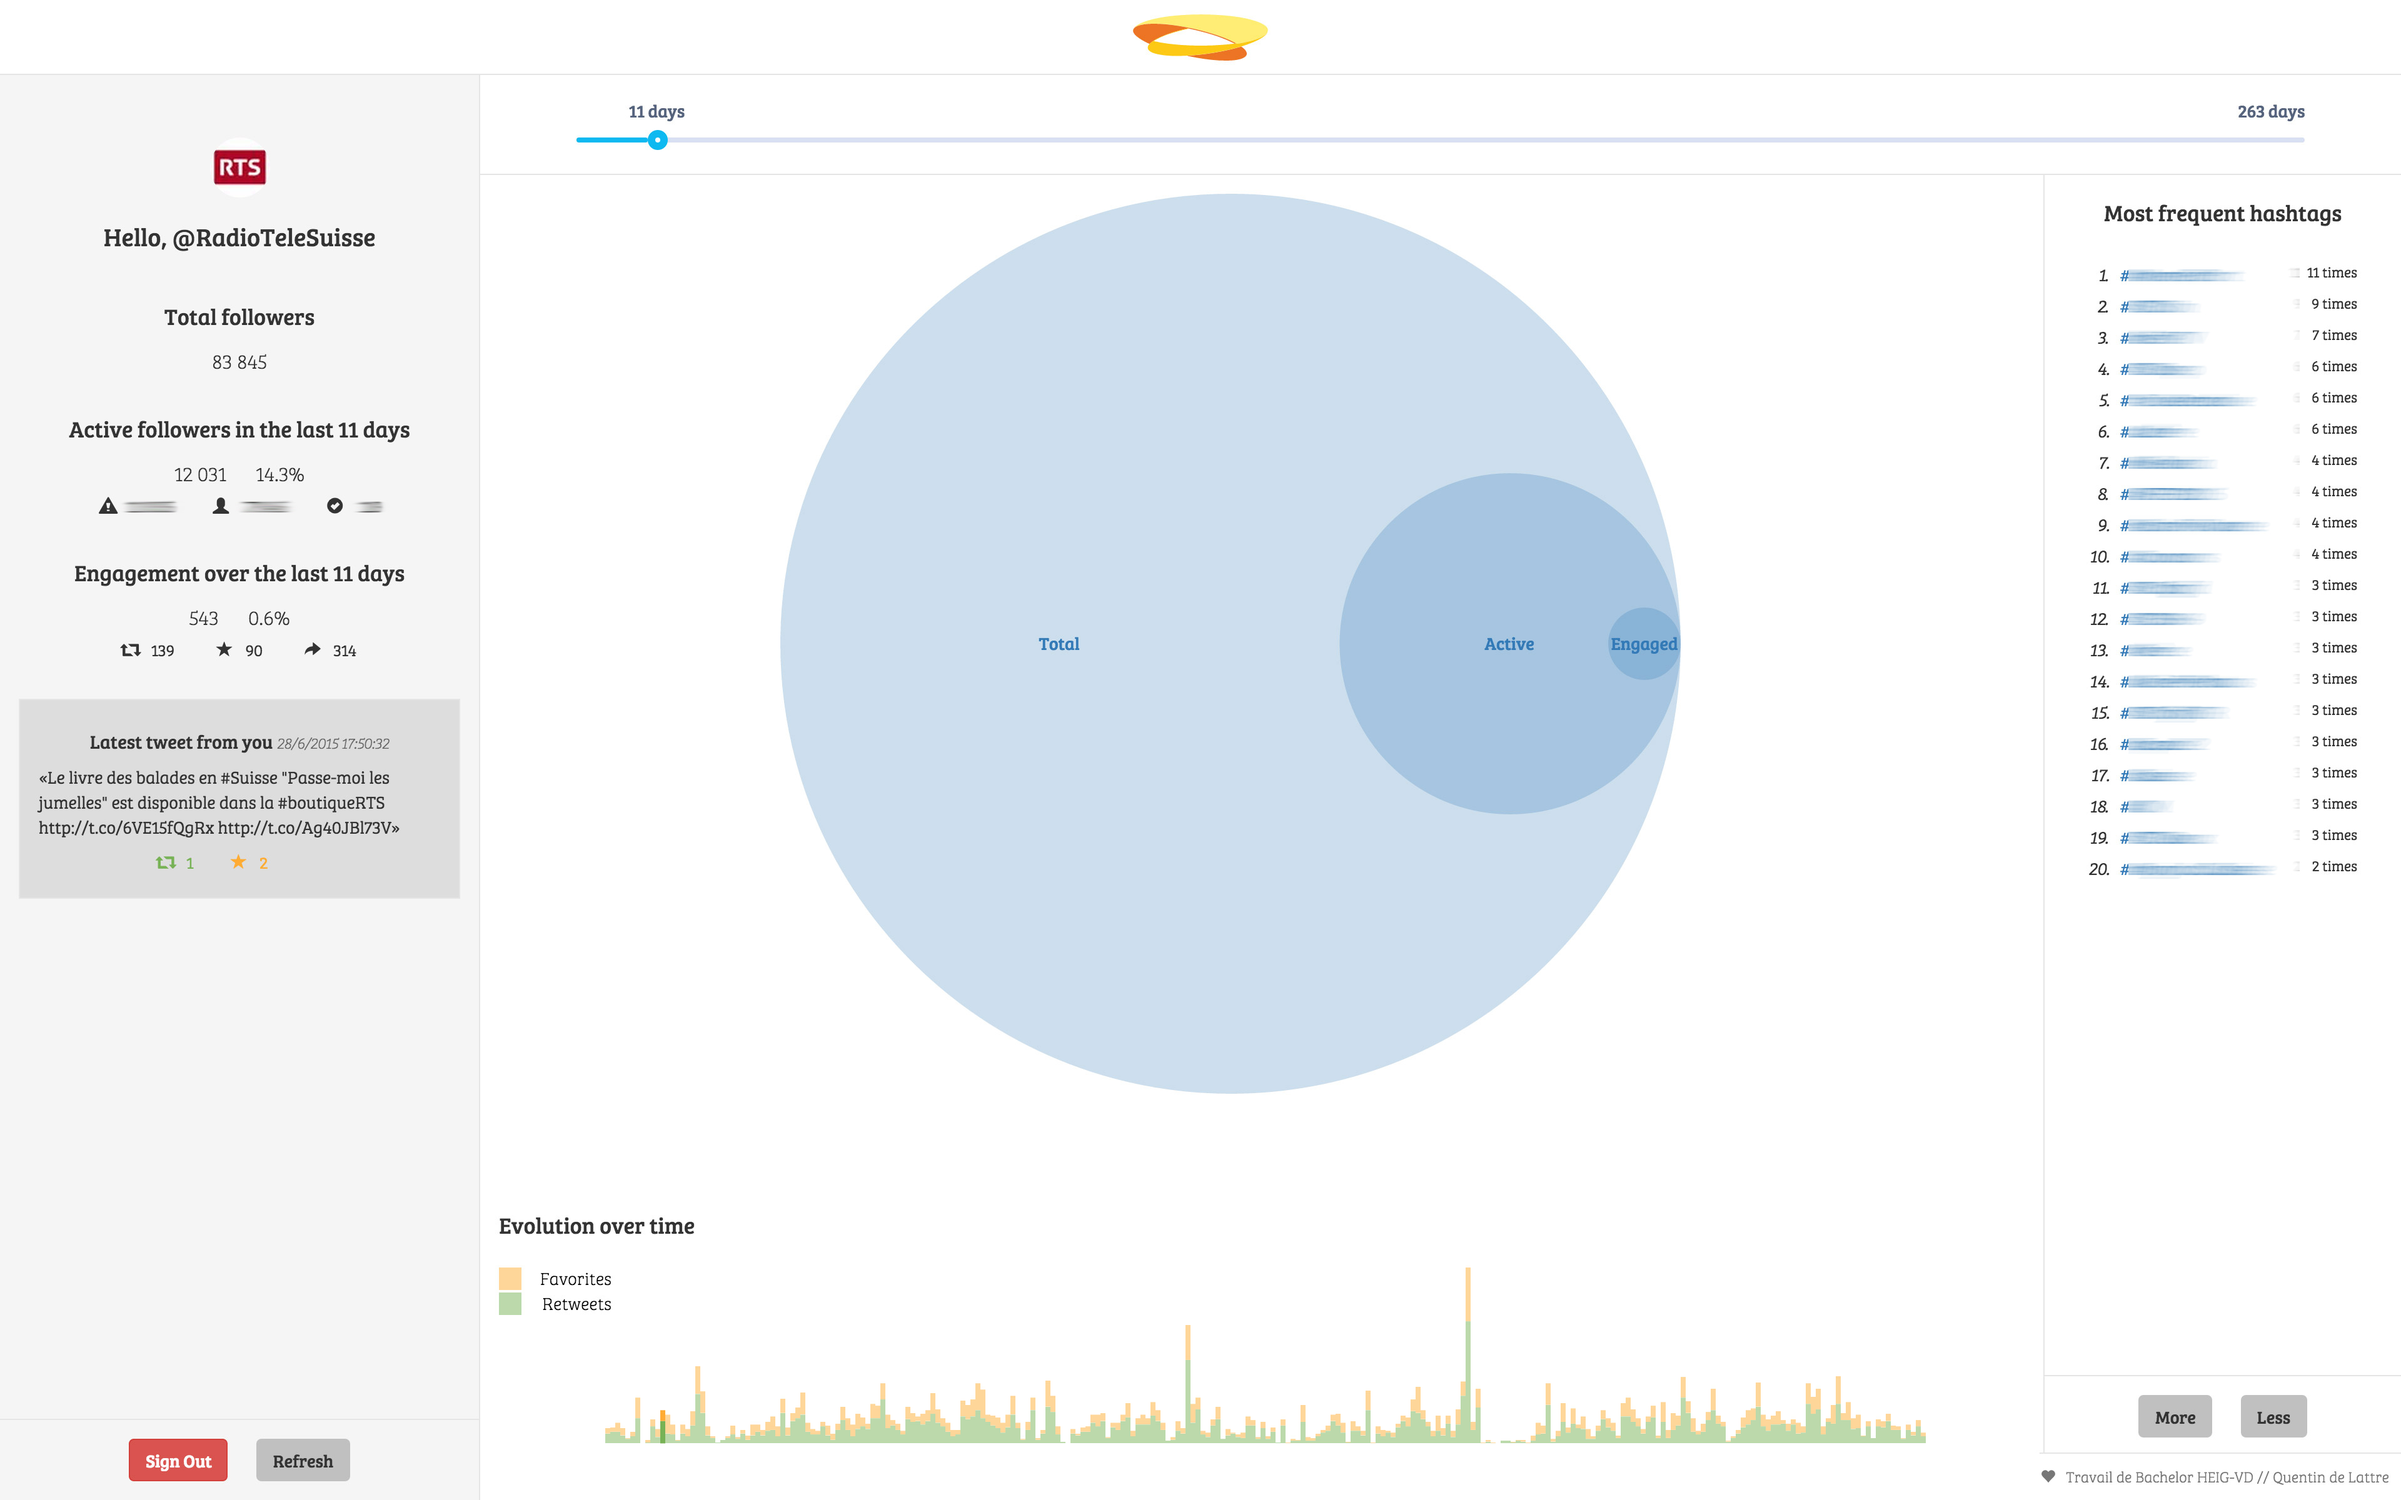
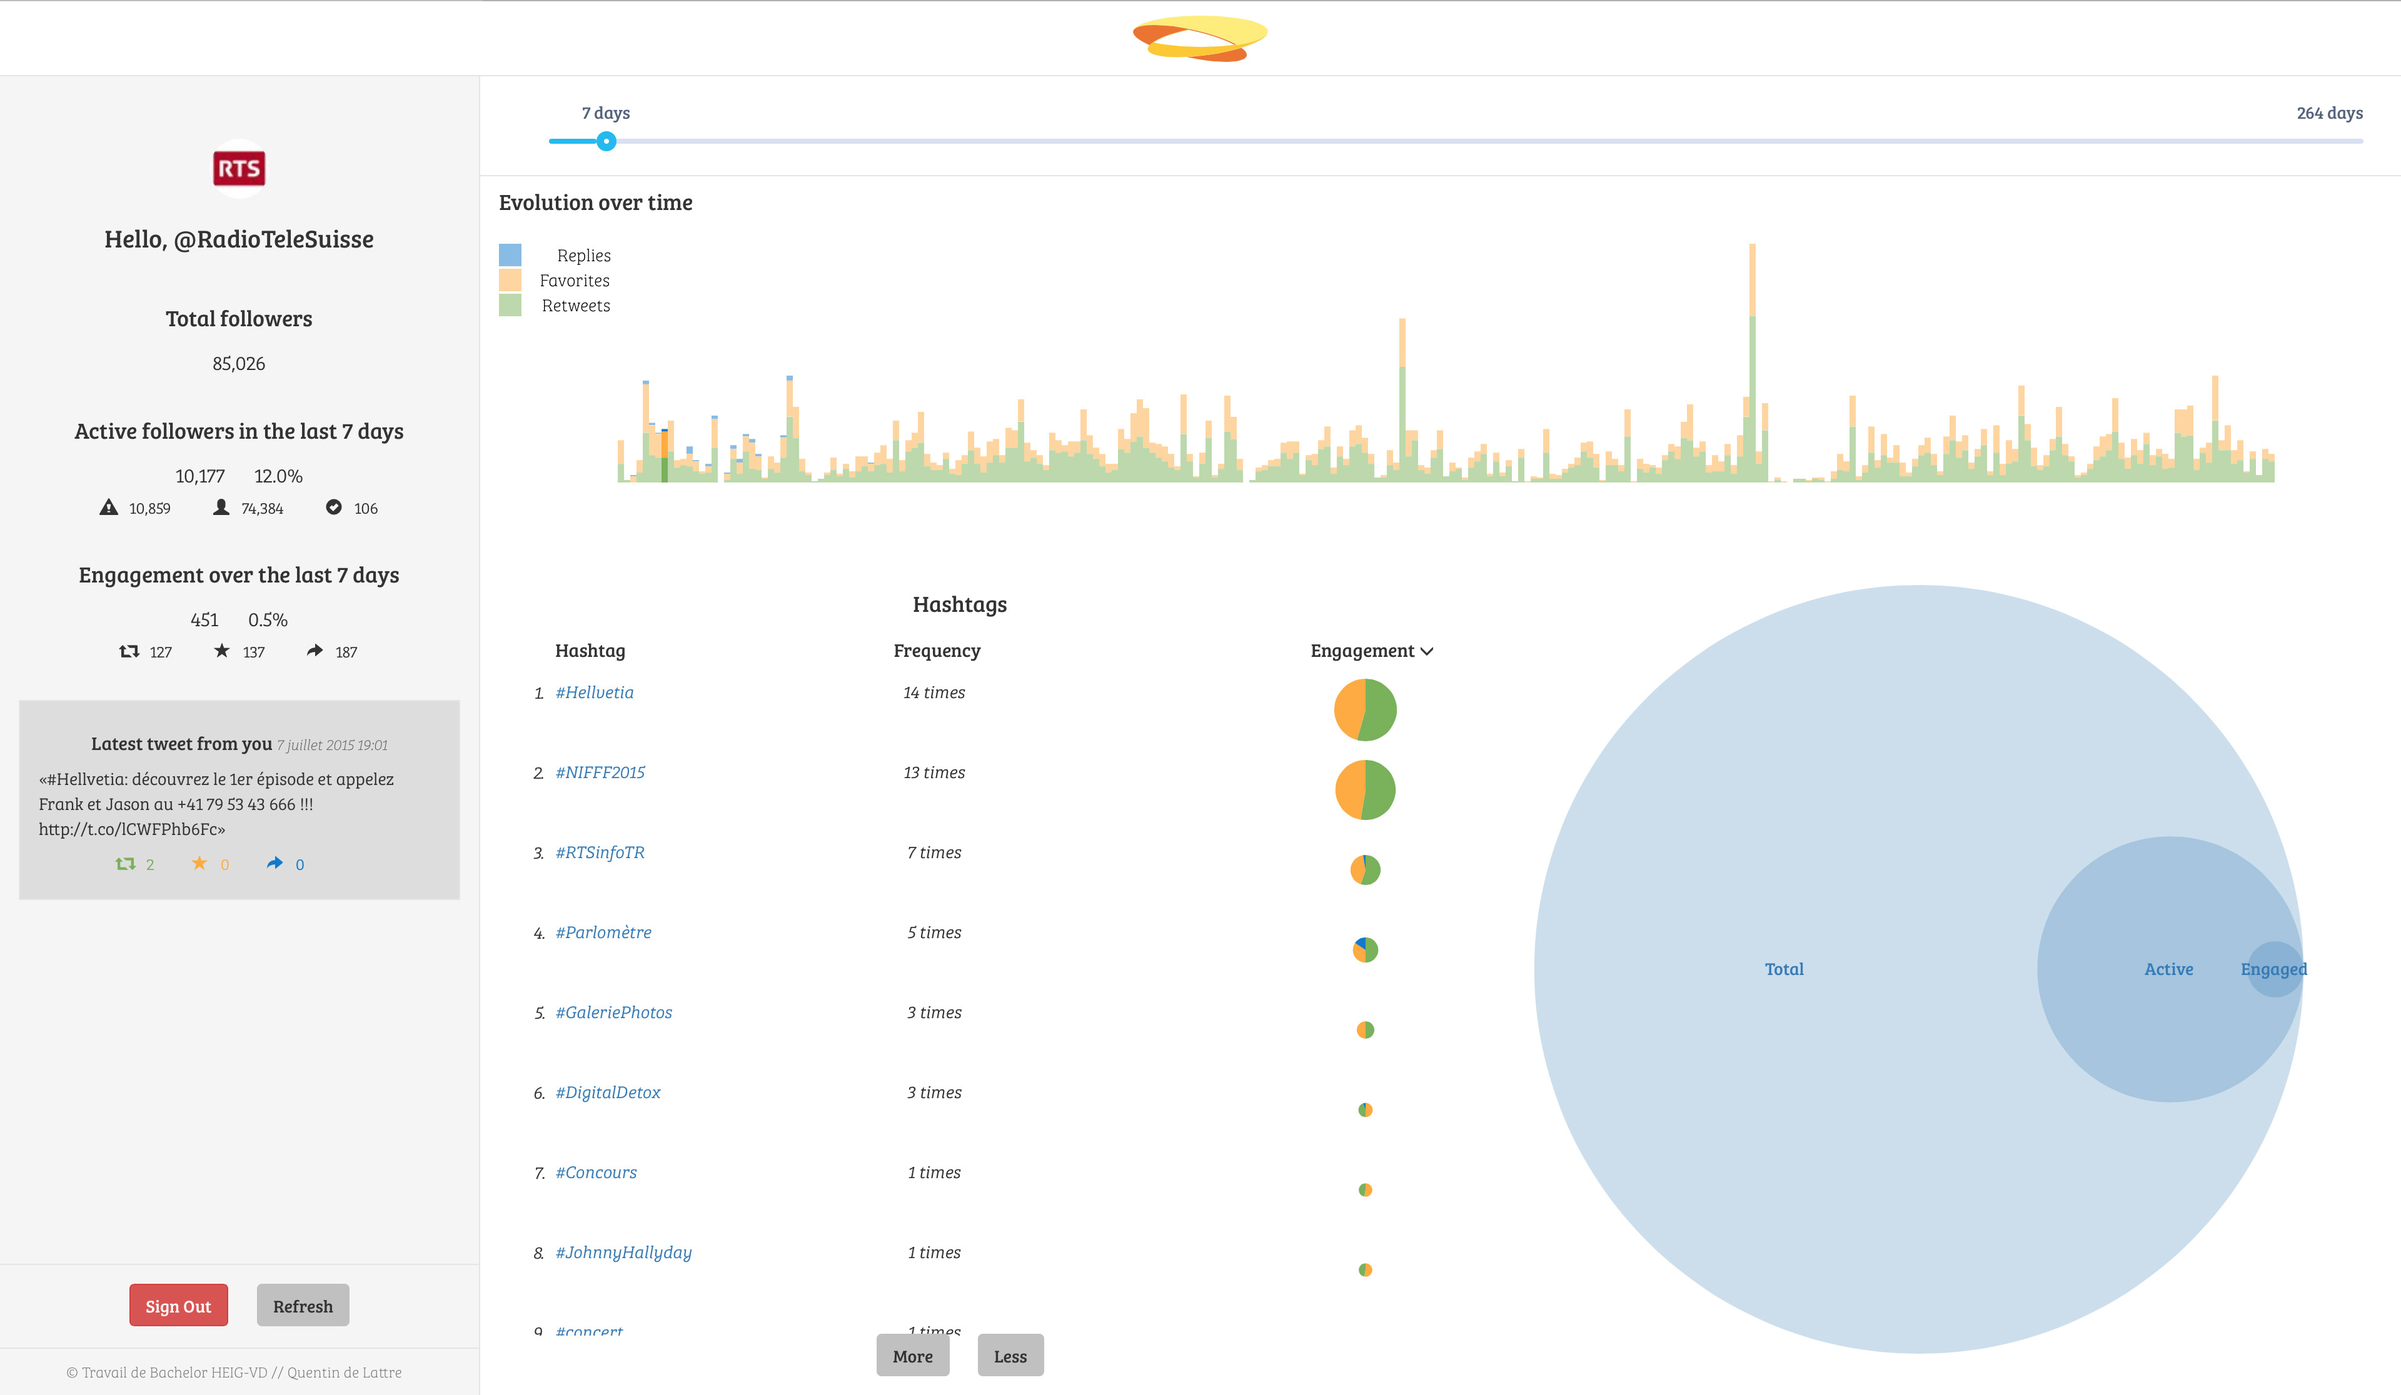
Updated README

diff --git a/README.md b/README.md
@@ -2,11 +2,21 @@
 
 ## Introduction
 
-Nest is my Bachelor project at [HEIG-VD](http://www.heig-vd.ch). It was developed to provide an Analytics Tool focused on measuring followers activity and engagement for the Radio Télévision Suisse (RTS) - public service TV and Radio broadcast company.
+Nest is my Bachelor project at [HEIG-VD](http://www.heig-vd.ch). It was developed to provide an Analytics Tool focused on measuring followers activity and engagement for the Radio Télévision Suisse (RTS) - public service TV and Radio broadcast company over its multiple Twitter accounts.
 
 This web application runs on [AngularJS](https://angularjs.org) and renders the data visualization through the  [D3](http://d3js.org) library. The Venn diagram rendering is courtesy of [Benfred's venn.js plugin](https://github.com/benfred/venn.js).
 
-<!-- The app is up and running at this address: [https://nest.herokuapp.com](https://nest.herokuapp.com). -->
+The app is up and running at this address: [http://nest.herokuapp.com](http://nest.herokuapp.com).
+
+### Engagement
+What is engagement ? This notion is quite complex to define since it relies on many types of behaviour from a user towards another. The official definition from Twitter describes engagement as any action going further than just seeing a tweet from a user in one's timeline. That entails:
+* Clicks on your tweet (on the profile picture, the possible embedded media, or the tweet itself to see the details)
+* Retweeting your tweet
+* Adding your tweet to their favorites
+* Replying to your tweet
+* Starting to follow the user who sent the tweet
+
+However, some [other reference website](http://simplymeasured.com/blog/2013/06/05/twitter-metrics-defined-engagement/#i.11ldj2m1cc4ecf) consider engagement simply as the sum of retweets, favorites and mentions over a certain time span. Eventually, this notion has to be tailored to what you are trying to analyse. In the case of this project, we consider engagement as the latter (ie. Retweets + Favorites + Mentions).
 
 ## Requirements to run on localhost
 
@@ -17,11 +27,7 @@ We assume you have already installed [Node and npm](https://nodejs.org).
 $ npm install -g grunt-cli bower
 ```
 * Follow this quick install guide to get [OAuthd](https://github.com/oauth-io/oauthd) up and running (Will guide you through installing Redis) : https://github.com/oauth-io/oauthd/wiki/Quickstart
-* Go to the Twitter Developers page and create an App (you'll need its token for OAuth)
-![](/screenshots/TwitterApp.png)
-* When your Redis server and OAutd are running, head to localhost:6284 and log in the admin panel
-* Setup the Twitter App
-![](http://blog.oauth.io/wp-content/uploads/2013/12/twitter-setup2.gif)
+* When your Redis server and OAutd are running, you can use the app.
 
 ## Installation
 
@@ -29,7 +35,7 @@ $ npm install -g grunt-cli bower
 ```
 $ git clone git@github.com:quentindelattre/nest.git
 ```
-* `cd` to the cloned directory and install the packages.
+* `cd` to the cloned directory and install the packages. (You might have to `sudo` these commands individually)
 ```
 $ npm install && bower install
 ```
@@ -43,14 +49,14 @@ $ grunt serve
 
 ### Homepage
 
-The home page lets you login with Twitter. Login with the account that you want to analyze and authorize the Nest App (read only).
+The home page lets you login with Twitter. Login with the account that you want to analyze and authorize the Nest App.
 ![](/screenshots/00_LandingPage.png)
 
 ### Loading Page
 
 Nest collects three different data to provide the analytics :
-* The 3200 latest tweets from your own timeline (3200 is the API limit).
-* The 800 latest tweets mentioning your @handle.
+* The 3200 latest tweets from your own timeline. (3200 is the API limit)
+* The 800 latest tweets mentioning your @handle. (Also limited by the API to 800)
 * The list of all your followers including (if any) the date of their latest tweet. This takes very long if you have a lot of followers because of [Twitter's rate limit](https://dev.twitter.com/rest/public/rate-limiting) on the API requests. The script collects 3000 followers per 15-minute session, then waits for a new session and continues, so sit back and relax, it's not broken it just takes a while.
 
 ![](/screenshots/01_Loading.jpg)
@@ -59,39 +65,38 @@ Nest collects three different data to provide the analytics :
 
 ![](/screenshots/02_Render.jpg)
 
-The visualization page shows you the data in an interactive way. On the left sidebar, you get numerical statistics about your followers activity and engagement with your account and the latest tweet from your account. On the top of the page, you can see the Time Machine that lets you visualize the evolution of your stats over time. The main part of the view is occupied by the interactive charts. The intersecting circles represent the statistics in the left sidebar while the bar chart shows the retweets and favorites your tweets generated during the time period set in the Time Machine. Finally, the right sidebar presents the most frequent hashtags used in your tweets in the last days set in the Time Machine. Let's walk through the stats and functionalities available in the app.
+On the left sidebar of the visualization page, you have numerical statistics about your followers activity and engagement with your account and the latest tweet from your timeline. On the top of the page, you can see the Time Machine that lets you visualize the evolution of your stats over time. The main part of the view is occupied by the interactive charts. The bar chart shows you how many retweets, favorites and replies your tweets generated on a daily basis. Next, you get statistics about the hashtags you used in your tweets in the last days set in the Time Machine, those hashtags can be ordered by alphabetical order, by frequency or by engagement generated. Finally, the intersecting circles in the Venn diagram represent the respective sizes of your total followers, their activity (at least sent one tweet in the last XX days) and their engagement towards your account. Let's walk through the stats and functionalities available in the app.
 
 #### Time Machine
 ![](/screenshots/03_TimeMachine.jpg)
 
-Adjust the time period of the stats with the slider.
+Adjust the time period of the stats with the slider. This allows you to visualize the evolution of your account and adapts all of the stats in the visualization.
+
+![](/screenshots/04_TimeMachineStats.jpg)
 
 #### Sidebar
-![](/screenshots/05_HoverStats.jpg)
 
 ##### Active followers
-A follower is considered active if he has tweeted within the time span of the Time Machine.
-The hover indications present details about the "health" of your followers. For example, if a follower has a pristine default account and follows way more people than is followed by (following 10'000 accounts and is followed by 20), it is likely to be a bot or spam account. The users that have at least tweeted once (even out of the Time Machine limit) are considered as Standard users. Finally, there is the number of verified accounts of official users.
+A follower is considered active if he has tweeted at least once within the time span of the Time Machine.
+The hover indications present details about the "health" of your followers. If a user has a pristine default account that is not protected and follows way more people than is followed by (ratio of following/followers similar to 10'000 to 20), we assume that it is some kind of spam account. You can click on this value to display a full list of those accounts and delete them from your followers if you want. The users that have at least tweeted once (even out of the Time Machine limit) are considered as Standard users. Finally, there is the number of verified accounts of official users.
+
+![](/screenshots/05_HoverStats.jpg)
+
 
 ##### Engaged followers
-The engaged followers are those who have retweeted your tweets and/or added them to their favorites and/or mentioned your @handle.
+For the purpose of this project, we consider the engaged (cf [engagement](https://github.com/quentindelattre/nest#engagement)) followers as those who have retweeted your tweets and/or added them to their favorites and/or mentioned your @handle, should it be in a reply to your tweets of by direct mention.
 
 #### Visualization
-The Venn diagram adjust with the Time Machine, on hover, the value of the circle is displayed in a tooltip.
 
-The bar chart represents the daily amount of retweets and mentions over the whole Time Machine. You can therefore see when your account was especially successful with your community. When a specific spike intrigues you, click on it and all your tweets from that day show up with the most successful first.
+The bar chart represents the daily amount of retweets, mentions and replies to your tweets over the whole Time Machine span. You can therefore see when your account was especially successful with your community. When a specific spike intrigues you, click on it and all your tweets from that day show up with the most successful first. That way, you can analyze your timeline to find out what kind of content really works with your followers.
 
 ![](/screenshots/07_TweetsFromDay.jpg)
 
+The hashtags visualization allows you to gain insight over the content of your tweets and the kind of engagement they generated. By default, the 15 most frequent hashtags are displayed, ordered by engagement. You can change the order of this list to see whether the hashtags you use most frequently have a good impact on your community of not. Same as for the bar charts, when you click on the pie chart or on the hashtag, your tweets containing them come up on screen.
 
-##### Hashtags
+![](/screenshots/06.1_HashtagsChange.jpg)
 
-![](/screenshots/06_MoreHashtags.jpg)
-
-By default, the 20 most frequent hashtags are displayed, you can show more or less of them and click to go directly on Twitter and see other tweets with these hashtags.
-
-
-
+The Venn diagram adjust with the Time Machine, on hover, the value of the circle is displayed in a tooltip. This tool allows you to visualize the growth of the sub-elements of your followers over time.
 
 # Copyright & License
 
